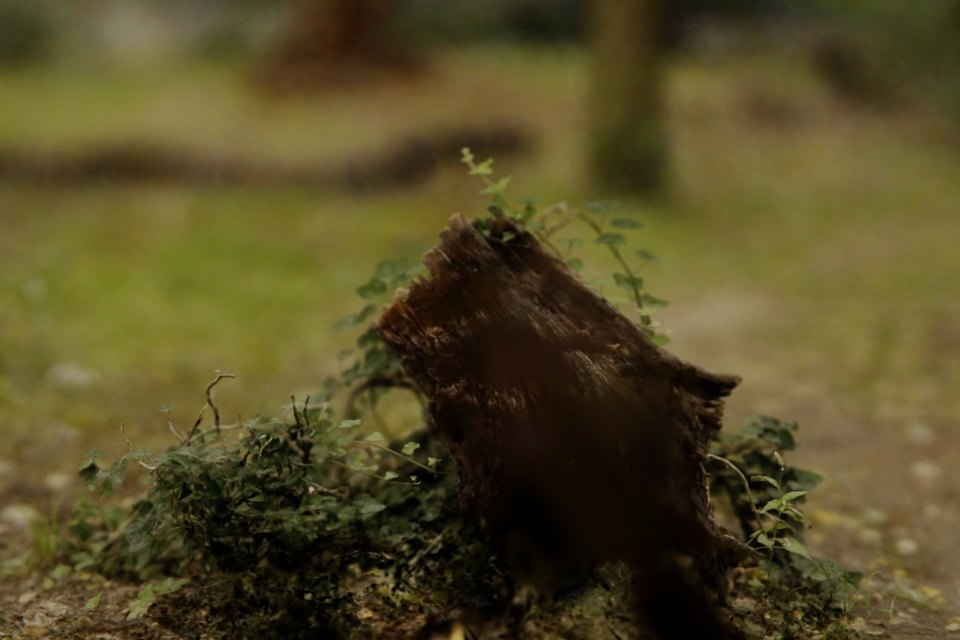
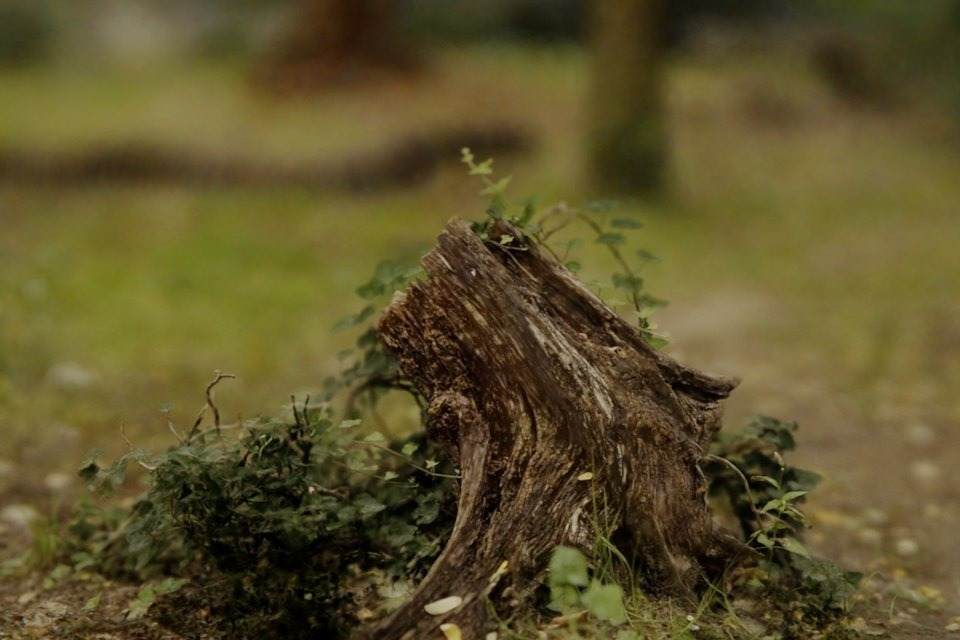
Gold frames crisp at full res and smooth spin; Wide and sharp pulls again; shorter first walk, no footsteps, smoother eye height; aperture clip keeps the stump's brightness; exposure challenge intro card

Changed region(s): [[0.375, 0.3125, 0.8125, 1.0]]

diff --git a/src/coach.js b/src/coach.js
@@ -69,7 +69,15 @@
   // 0 → 1 → 0 with a pause at each end, so there's time to see both
   function coSweep(now){ var T=5.6, u=(now/1000)%T/T, e=function(x){ return x<0?0:x>1?1:x*x*(3-2*x); };
     return u<0.12?0:u<0.45?e((u-0.12)/0.33):u<0.62?1:u<0.95?1-e((u-0.62)/0.33):0; }
-  function coMediaDraw(kind, cv, now){ if(CO_SCENE[kind]) return coSceneDraw(kind, cv); var M=CO_MEDIA[kind]; if(!M||!cv||!CO_IMG.complete||!CO_IMG.naturalWidth) return;
+  /* the exposure challenge's intro: the three lights it's about to throw at you, side by side */
+  function coLightsDraw(cv){ if(!cv||!CO_IMG.complete||!CO_IMG.naturalWidth) return; var dpr=Math.min(2,window.devicePixelRatio||1), W=cv.clientWidth||400, H=cv.clientHeight||240; if(cv.width!==Math.round(W*dpr)){ cv.width=Math.round(W*dpr); cv.height=Math.round(H*dpr); }
+    var g=cv.getContext("2d"); g.setTransform(dpr,0,0,dpr,0,0); g.fillStyle="#0c0b0a"; g.fillRect(0,0,W,H);
+    var L=[["day","1 · SUNNY DAY"],["night","2 · NIGHT"],["blur","3 · SOFT BACKGROUND"]], gap=6, tw=(W-gap*2)/3;
+    L.forEach(function(l,i){ var S=CO_SCENE[l[0]], img=(S.ap!=null&&CO_AP.ok)?CO_AP.im[S.ap]:CO_IMG, x0=i*(tw+gap), ir=img.naturalWidth/img.naturalHeight, dh=H, dw=H*ir;
+      g.save(); g.beginPath(); g.rect(x0,0,tw,H); g.clip(); g.filter=S.f; g.drawImage(img,x0+(tw-dw)/2,0,dw,dh); g.filter="none"; if(S.tint){ g.fillStyle=S.tint; g.fillRect(x0,0,tw,H); }
+      var gr=g.createLinearGradient(0,H-46,0,H); gr.addColorStop(0,"rgba(12,11,10,0)"); gr.addColorStop(1,"rgba(12,11,10,.85)"); g.fillStyle=gr; g.fillRect(x0,H-46,tw,46);
+      g.font="500 11px 'Geist Mono',ui-monospace,monospace"; g.fillStyle="#e3ad57"; g.fillText(l[1],x0+10,H-14); g.restore(); }); }
+  function coMediaDraw(kind, cv, now){ if(kind==="lights") return coLightsDraw(cv); if(CO_SCENE[kind]) return coSceneDraw(kind, cv); var M=CO_MEDIA[kind]; if(!M||!cv||!CO_IMG.complete||!CO_IMG.naturalWidth) return;
     var dpr=Math.min(2,window.devicePixelRatio||1), W=cv.clientWidth||400, H=cv.clientHeight||240;
     if(cv.width!==Math.round(W*dpr)){ cv.width=Math.round(W*dpr); cv.height=Math.round(H*dpr); }
     var g=cv.getContext("2d"); g.setTransform(dpr,0,0,dpr,0,0); g.globalAlpha=1; g.globalCompositeOperation="source-over"; g.filter="none";
@@ -82,7 +90,7 @@
       else { var path=[[0,0],[0.3,0.2],[0.55,-0.1],[0.8,0.35],[1,0.15],[0.7,-0.25],[0.45,0.05],[0.2,-0.3]], wob=Math.sin(now/170)*0.15;
         for(var k=0;k<path.length;k++){ g.globalAlpha=1/(k+1); g.drawImage(img,dx+(path[k][0]-0.5+wob)*L,dy+(path[k][1])*L,dw,dh); } g.globalAlpha=1; } }
     else if(kind==="aperture"&&CO_AP.ok){ var fi=t*(CO_AP.im.length-1), a0=Math.floor(fi), a1=Math.min(CO_AP.im.length-1,a0+1), fr=fi-a0, im0=CO_AP.im[a0], r0=im0.naturalWidth/im0.naturalHeight, w0=W, h0=W/r0; if(h0<H){ h0=H; w0=H*r0; }
-      g.filter="brightness("+(1.08-0.4*t).toFixed(3)+")";   /* the frames were metered; here the same shutter stays, so stopping down goes darker */
+      g.filter="none";   /* the frames were metered: the stump keeps the same brightness while the depth of field changes */
       g.drawImage(im0,(W-w0)/2,(H-h0)/2,w0,h0); if(fr>0.01){ g.globalAlpha=fr; g.drawImage(CO_AP.im[a1],(W-w0)/2,(H-h0)/2,w0,h0); g.globalAlpha=1; } g.filter="none"; coIris(g,W-52,50,34,t); }
     else if(kind==="aperture"){ bright=1.32-0.78*t; var B=(1-t)*7;
       g.filter="blur("+B.toFixed(2)+"px) brightness("+bright.toFixed(3)+")"; g.drawImage(img,dx-8,dy-8,dw+16,dh+16);
@@ -109,7 +117,7 @@
     var words=t<0.25?M.lo:t>0.75?M.hi:(M.mid&&Math.abs(t-0.5)<0.12?M.mid:"");
     if(words){ g.font="400 13px 'Geist',ui-sans-serif,system-ui,sans-serif"; g.fillStyle="#f4f1ea"; g.textAlign="right"; g.fillText(words,x1,H-26); g.textAlign="left"; } }
   // the warm-up's practice scenes: a picture of the target, the sliders ringed, and the meter reading as if the light were different
-  function coScene(kind, bias, line, sub, extra){ return {ch:"EXPOSE", media:kind, need:"back", dwell:1400, line:function(){ return line; }, sub:sub,
+  function coScene(kind, bias, line, sub, extra){ return {ch:"CHALLENGE", media:kind, need:"back", dwell:1400, line:function(){ return line; }, sub:sub,
     target:'#camback .cb-meter', place:"side", targets:function(){ return Array.prototype.slice.call(document.querySelectorAll('#camback .cb-scale')); }, nodim:true,
     start:function(){ meterBias=bias; computeCam(); if(typeof cbRender==="function") cbRender(); },
     done:function(){ return Math.abs(evStops)<=0.5&&(!extra||extra()); } }; }
@@ -145,9 +153,9 @@
       {ch:"MOVE", line:function(){ return 'Click, then move the mouse to look around'; }, sub:"Esc lets go of the mouse. The sharp thing in front of you is the subject; if you lose it, a gold ring points the way back.",
         done:function(){ return CO.look>1.6; }, bar:function(){ return CO.look/1.6; }},
       {ch:"MOVE", line:function(){ var d=typeof chSubjectDist==="function"?chSubjectDist():Infinity; return isFinite(d)&&d>4.5?'Head for the gold ring: that\'s '+(typeof chSubjectName==="function"?chSubjectName():"the subject")+', your subject':coK("W")+coK("A")+coK("S")+coK("D")+' to walk'; },
-        sub:"Have a wander, but stay close. A scan is only sharp near the thing it was made of; the edges always go soft.",
+        sub:"Just a few steps, and stay close. A scan is only sharp near the thing it was made of; the edges always go soft.",
         start:function(){ CO.s.d0=typeof chSubjectDist==="function"?chSubjectDist():Infinity; },   /* a scene that starts you far from its subject only asks you to head its way */
-        done:function(){ var d=typeof chSubjectDist==="function"?chSubjectDist():Infinity; return CO.walked>3&&(!isFinite(d)||d<4.5||d<CO.s.d0-2); }, bar:function(){ return Math.min(1,CO.walked/3); }},
+        done:function(){ var d=typeof chSubjectDist==="function"?chSubjectDist():Infinity; return CO.walked>1.2&&(!isFinite(d)||d<4.5||d<CO.s.d0-1); }, bar:function(){ return Math.min(1,CO.walked/1.2); }},
       {ch:"MOVE", line:function(){ return coK("Q")+' to crouch, '+coK("E")+' to stand tall'; }, sub:"Try shooting from low down and up high.",
         done:function(){ return CO.keys.Q&&CO.keys.E; }},
       {ch:"SHOOT", line:function(){ return '<kbd>RIGHT CLICK</kbd> raises the camera to your eye'; }, sub:"Right click again to lower it. "+coK("P")+" does the same.",
@@ -182,10 +190,13 @@
       coDial(2,"iso","ISO","Higher sees in the dark, lower keeps it clean."),
       {ch:"SETTINGS", media:"meter", info:true, need:"back", line:function(){ return 'The <b>light meter</b> adds them all up'; },
         sub:"Every setting moves the needle. Left of the middle is too dark, right is too bright. Get it near the middle, then trade one setting against another for the look you want."},
-      coScene("day", 3, 'A <b>bright sunny day</b>: get the needle to the middle', "There's eight times more light than here. Turn the sliders until the needle sits in the middle.", null),
-      coScene("night", -4, '<b>Night</b>: get the needle to the middle', "Sixteen times less light. You'll need to let a lot more in, with a slower shutter, a wider aperture or a higher ISO.", null),
-      coScene("blur", 0, 'A <b>blurred background</b>: f/2.8 or wider, needle in the middle', "Open the aperture to blur the background, then balance the light with the other two.", function(){ return APERTURES[apIdx]<=2.8; }),
-      {ch:"EXPOSE", line:function(){ return coK("SPACE")+' takes you back to the scene'; }, sub:"",
+      /* a clear break: the explaining's over, now it's a challenge with three lights to expose for */
+      {ch:"CHALLENGE", media:"lights", info:true, need:"back", line:function(){ return '<b>Challenge:</b> expose for three different lights'; },
+        sub:"Now it's your turn. We'll change the light on you three times: a bright sunny day, then night, then a soft background. Each time the needle swings off, and it's up to you to bring it back to the middle with what you've just learnt."},
+      coScene("day", 3, 'A <b>bright sunny day</b>: get the needle to the middle <span class="co-rng">1 of 3</span>', "There's eight times more light than here. Turn the sliders until the needle sits in the middle.", null),
+      coScene("night", -4, '<b>Night</b>: get the needle to the middle <span class="co-rng">2 of 3</span>', "Sixteen times less light. You'll need to let a lot more in, with a slower shutter, a wider aperture or a higher ISO.", null),
+      coScene("blur", 0, 'A <b>blurred background</b>: f/2.8 or wider, needle in the middle <span class="co-rng">3 of 3</span>', "Open the aperture to blur the background, then balance the light with the other two.", function(){ return APERTURES[apIdx]<=2.8; }),
+      {ch:"CHALLENGE", line:function(){ return coK("SPACE")+' takes you back to the scene'; }, sub:"",
         done:function(){ return !cbOpen; }}]},
     select:{where:function(){ return typeof st!=="undefined"&&st.open&&st.room==="select"; }, steps:[
       {ch:"LOOK", line:function(){ return 'Every photo you took is on the <b>light table</b>'; }, sub:"Look through them all before you choose.",
@@ -503,4 +514,4 @@
   document.addEventListener("click",function(e){ if(!CO.on) return; var s=coSteps()[CO.i]; if(s&&s.click&&e.target.closest&&e.target.closest(s.click)) CO.s.ok=true; }, true);
   document.addEventListener("keydown",function(e){ if(!CO.on) return; var m={KeyW:"W",KeyA:"A",KeyS:"S",KeyD:"D",KeyQ:"Q",KeyE:"E",KeyP:"P",KeyB:"B",Space:"SPACE",Digit2:"2",Backslash:"\\",Escape:"ESC",Enter:"ENTER",KeyC:"C"}[e.code]; if(m) CO.keys[m]=true; }, true);
   if(/[?&]dev/.test(location.search)) window.__co={ state:function(){ var s=coSteps()[CO.i]; return {on:CO.on, tour:CO.tour, done:CO.done, i:CO.i, n:coSteps().length, ch:s&&s.ch, shown:!!document.querySelector("#coCard.show"), ed:edState?{i:edState.i, a:edState.aspect, cx:+edState.cx.toFixed(3), cy:+edState.cy.toFixed(3)}:null}; }, skip:function(){ coFinish(true); },
-    start:coStart, stop:coStop, next:function(){ CO.s.ok=true; }, go:function(){ if(CO.on&&!CO.ticking) coTicked(); }, clip:function(kind,cv,ms){ coMediaDraw(kind,cv,ms); }, qclip:function(kind,cv,ms){ qClipDraw(kind,cv,ms); }, qmorph:qMorphOpen, nudge:function(o){ if(o.look) CO.look+=o.look; if(o.walk) CO.walked+=o.walk; if(o.keys) o.keys.forEach(function(k){ CO.keys[k]=true; }); } };
+    back:function(){ if(typeof openBack==="function") openBack(); }, start:coStart, stop:coStop, next:function(){ CO.s.ok=true; }, go:function(){ if(CO.on&&!CO.ticking) coTicked(); }, clip:function(kind,cv,ms){ coMediaDraw(kind,cv,ms); }, qclip:function(kind,cv,ms){ qClipDraw(kind,cv,ms); }, qmorph:qMorphOpen, nudge:function(o){ if(o.look) CO.look+=o.look; if(o.walk) CO.walked+=o.walk; if(o.keys) o.keys.forEach(function(k){ CO.keys[k]=true; }); } };

diff --git a/src/challenge.js b/src/challenge.js
@@ -72,7 +72,7 @@
   // is the camera inside frame P's pulse (grown by m metres)?
   function chInPulse(P,m){ var L=Math.hypot(P.d.x,P.d.z)||1, ax=-P.d.x/L, az=-P.d.z/L, dx=camPos.x-P.F.x, dz=camPos.z-P.F.z;
     var n=dx*ax+dz*az, u=Math.abs(dx*-az+dz*ax), k=Math.max(0,Math.min(1,n/CH_REACH));
-    return n>-0.25-m&&n<CH_REACH+m&&u<P.w*0.5*(1+CH_SPREAD*k)+0.2+m&&Math.abs(camPos.y-P.F.y)<P.h*0.5+1.3+m; }
+    return n>-0.25-m&&n<CH_REACH+m&&u<P.w*0.5*(1+CH_SPREAD*k)+0.2+m&&Math.abs(camPos.y-P.F.y)<P.h*0.5+2.0+m; }   /* any eye height: a low frame still takes you standing tall */
   var CH_INTRO_SETTLE=2500;   /* ms after the opening or welcome card has gone before the gold frames' spin may start */
   var CH_MOVE={KeyW:1,KeyA:1,KeyS:1,KeyD:1,KeyQ:1,KeyE:1,ArrowUp:1,ArrowDown:1,ArrowLeft:1,ArrowRight:1,Space:1}, CH_GRACE=1000;
   CH.glow=0; CH.bloom=0; CH.pt=0; CH.lockT=0;
@@ -107,9 +107,9 @@
     if(CH.cool>=0){ var C=CH.pads[CH.cool]; if(!C||(!chInPulse(C,0.3)&&Math.hypot(camPos.x-C.E.x,camPos.z-C.E.z)>0.6)) CH.cool=-1; }   // free again once you've stepped out of its pulse
     if(CH.pull>=0){ var Q=CH.pads[CH.pull];
       if(!chHold()&&(nudge||Math.hypot(camPos.x-Q.E.x,camPos.z-Q.E.z)>CH_LEAVE)){ chLetGo(); return; } }
-    else { if(CH.cool>=0) return;   // just let go of one: step out of its pulse before another can take you
+    else {   /* the one you just let go of waits until you've stepped out of its pulse; the others can take you straight away (Wide and sharp sits right beside the shallow depth of field one) */
       // in its pulse, or already standing on its spot; the nearest frame wins
-      var best=-1, bd=1e9; CH.pads.forEach(function(P,i){ if(CH.done[P.c.id]||!P.vis||!(chInPulse(P,0)||Math.hypot(camPos.x-P.E.x,camPos.z-P.E.z)<0.3)) return; var dd=Math.hypot(camPos.x-P.F.x,camPos.z-P.F.z); if(dd<bd){ bd=dd; best=i; } });
+      var best=-1, bd=1e9; CH.pads.forEach(function(P,i){ if(i===CH.cool||CH.done[P.c.id]||!P.vis||!(chInPulse(P,0)||Math.hypot(camPos.x-P.E.x,camPos.z-P.E.z)<0.3)) return; var dd=Math.hypot(camPos.x-P.F.x,camPos.z-P.F.z); if(dd<bd){ bd=dd; best=i; } });
       if(best>=0) chGrab(best); }
     if(CH.pull<0||CH.locked) return; var P=CH.pads[CH.pull], A=CH.from, B=CH.to;
     CH.pt=Math.min(1,CH.pt+dt/CH.dur); var x=CH.pt, s=x*x*x*(x*(x*6-15)+10);   // smootherstep: eases out of where you were, settles softly
@@ -223,5 +223,6 @@
     window.__ch.aim=function(i){ var d=CH.pads[i].d; yaw=Math.atan2(-d.x,-d.z); pitch=Math.asin(Math.max(-1,Math.min(1,d.y))); basis(); };
     window.__ch.goto=function(i){ var P=CH.pads[i]; CH.pull=-1; CH.locked=false; CH.cool=i; camPos.x=P.E.x; camPos.z=P.E.z; WK.eye=P.E.y-wkGround(P.E.x,P.E.z); _vel.set(0,0,0); };
     window.__ch.approach=function(i,out,turn){ var P=CH.pads[i], L=Math.hypot(P.d.x,P.d.z)||1; out=out==null?0.35:out; camPos.x=P.F.x-P.d.x/L*out; camPos.z=P.F.z-P.d.z/L*out; yaw=Math.atan2(-P.d.x,-P.d.z)+(turn==null?0.3:turn); pitch=0; _vel.set(0,0,0); };
+    window.__ch.probe=function(i){ var P=CH.pads[i]; return {inPulse:chInPulse(P,0), cam:[camPos.x,camPos.y,camPos.z], F:[P.F.x,P.F.y,P.F.z], E:[P.E.x,P.E.y,P.E.z], d:[P.d.x,P.d.y,P.d.z], w:P.w, h:P.h, D:P.D, vis:P.vis, cool:CH.cool, intro:!!CH.intro, introAt:CH.introAt, off:chOff(), offWhy:[!!CH.hidden, typeof RF!=="undefined"&&RF.on, typeof LA!=="undefined"&&!!(LA.on||LA.wcard||LA.toTour), typeof coHidesFrames==="function"&&coHidesFrames()], pull:CH.pull, mm:P.c.mm, blocked:WK.col?wkBlocked(camPos.x,camPos.z,wkFeet()):null}; };   /* why a frame does or doesn't take you */
     window.__ch.pull=function(){ return {i:CH.pull, locked:CH.locked, cool:CH.cool, hold:chHold()}; }; window.__ch.nudge=function(){ CH.nudge=true; };
     window.__ch.force=function(i){ CH.intro=null; CH.pull=-1; CH.locked=false; CH.cool=i; CH.focus=i; CH.active=i; chCard(i>=0?CH.pads[i]:null); if(typeof cbRender==="function") cbRender(); if(typeof bagRender==="function") bagRender(); }; }

diff --git a/src/app.js b/src/app.js
@@ -566,7 +566,7 @@
     var k=1-Math.pow(0.0015, Math.max(dt,0.0001));
     fx.exposure+=(tgtE-fx.exposure)*k; fx.filmic+=(tgtF-fx.filmic)*k; fx.vignette+=(tgtV-fx.vignette)*k; fx.grain+=(tgtG-fx.grain)*k; fx.dof+=(tgtD-fx.dof)*k;
     renderer.setRenderTarget(sceneRT); renderer.setClearColor(0x0e0f13,1); renderer.clear(true,true,true);
-    if(viewer){ try{ skyFollow(); if(typeof weTick==="function") weTick(dt); wxSkyFor(camera.position); sparkLens(); ptRender(); wxSkyFor(camera.position); renderer.setRenderTarget(sceneRT); renderer.render(scene,camera); chRender(dt); if(typeof bndRender==="function") bndRender(dt); }catch(e){ if(!renderFrame.warned){ renderFrame.warned=1; console.error("render failed",e); } } }
+    if(viewer){ try{ skyFollow(); if(typeof weTick==="function") weTick(dt); wxSkyFor(camera.position); sparkLens(); ptRender(); wxSkyFor(camera.position); renderer.setRenderTarget(sceneRT); renderer.render(scene,camera); if(typeof bndRender==="function") bndRender(dt); }catch(e){ if(!renderFrame.warned){ renderFrame.warned=1; console.error("render failed",e); } } }
     var useD=false;
     if(loaded&&dt>0) chTick(dt);
     renderer.setRenderTarget(fsTarget);
@@ -581,6 +581,7 @@
     if(!cap) seedCounter=(seedCounter+1)%9973; fsMat.uniforms.seed.value=seedCounter;   /* grain moves every frame you watch, and holds still for the one the shutter records */
     if(dt>0){ var nowT=performance.now(); if(nowT-(renderFrame._lt||0)>250){ renderFrame._lt=nowT; if(Math.abs(Math.log(sceneLightLin())/Math.LN2-lightStops)>0.02) computeCam(); } }   /* the light changed (time of day, a lamp): the meter follows */
     renderer.render(fsScene,fsCam);
+    if(viewer){ try{ chRender(dt); }catch(e){} }   /* the gold frames draw after the last pass, at the screen's full resolution, so they're crisp however low the scene is drawing */
   }
   function animate(){ requestAnimationFrame(animate); var dt=Math.min(clock.getDelta(),0.1);
     if((typeof cbOpen!=="undefined" && cbOpen) || (typeof bg!=="undefined" && bg.open) || (typeof st!=="undefined" && st.open)) return;   // the camera back covers the scene: stop drawing it (big win on school PCs)
@@ -722,7 +723,7 @@
   // resolution first (down to 60%); if that's not enough, trim Spark's splat budget a little too. Both come back with headroom.
   function dynLod(){ var sp=viewer&&viewer.spark; return sp?sp.lodSplatScale:1; }
   function dynLodBase(){ var b=(DETAIL[sceneDetail]||DETAIL.balanced).lod||1; return CH.spec&&CH.spec.fullRes?Math.max(b,1.3):b; }
-  function dynTick(dt){ if(!loaded||!(dt>0)) return; dyn.ema=dyn.ema*0.9+dt*100; dyn.t+=dt; var mx=dynTop(), sp=viewer&&viewer.spark; if(dyn.scale>mx+0.001){ setScale(mx); return; }
+  function dynTick(dt){ if(!loaded||!(dt>0)) return; if(typeof CH!=="undefined"&&CH.intro) return;   /* no resolution steps mid-spin: each one reallocates the scene target and hitches the glide */ dyn.ema=dyn.ema*0.9+dt*100; dyn.t+=dt; var mx=dynTop(), sp=viewer&&viewer.spark; if(dyn.scale>mx+0.001){ setScale(mx); return; }
     if(dyn.t<0.6) return; dyn.t=0; var fps=1000/dyn.ema;
     /* when it's slow, thin the distant splats first (barely visible), and only then drop resolution, never below 0.85:
        a blurry picture looks far worse than a little less far-off detail */

diff --git a/src/walk.js b/src/walk.js
@@ -39,11 +39,13 @@
     else { _vel.x=0; _vel.z=0; }
     if(!stuck&&(camPos.x!==nx||camPos.z!==nz)&&Date.now()-(WK.bumpT||0)>900){ WK.bumpT=Date.now(); if(typeof achEvent==="function") achEvent("bump"); }   /* walked into something */
     if(!wkBlocked(camPos.x,camPos.z,wkFeet())) wkFree();
-    if(WK.mode==="walk"&&!stuck) sfxStepTick(dt, Math.hypot(_vel.x,_vel.z));
+    /* no footstep sound: Sam found it distracting */
     if(WK.mode==="fly"){ camPos.y+=_vel.y*dt; var gmin=wkGround(camPos.x,camPos.z)+0.15; if(camPos.y<gmin){ camPos.y=gmin; _vel.y=0; } } }
   /* the nearest clear spot, searched in rings out to a metre and a bit */
   function wkEscape(feet){ for(var d=0.1;d<=1.3;d+=0.1) for(var a=0;a<16;a++){ var an=a/16*Math.PI*2, x=camPos.x+Math.cos(an)*d, z=camPos.z+Math.sin(an)*d; if(!wkBlocked(x,z,feet)) return [x,z]; } return null; }
-  function wkSettle(dt){ if(!WK.col||WK.mode!=="walk") return; var tgt=wkGround(camPos.x,camPos.z)+WK.eye; camPos.y+=(tgt-camPos.y)*(1-Math.exp(-10*Math.min(dt,0.05))); }
+  /* the eye height follows the ground, averaged over a step's width so the bumps in a scan's ground don't jog the view */
+  function wkGroundSoft(x,z){ var r=0.3; return wkGround(x,z)*0.4+(wkGround(x+r,z)+wkGround(x-r,z)+wkGround(x,z+r)+wkGround(x,z-r))*0.15; }
+  function wkSettle(dt){ if(!WK.col||WK.mode!=="walk") return; var tgt=wkGroundSoft(camPos.x,camPos.z)+WK.eye; camPos.y+=(tgt-camPos.y)*(1-Math.exp(-6*Math.min(dt,0.05))); }
   function wkEye(d, dt){ var e=Math.max(WK_EYE_MIN,Math.min(WK_EYE_MAX,WK.eye+d*dt*0.9)); if(e===WK.eye) return; WK.eye=e;
     var now=performance.now(); if(now-WK.toastT>500){ WK.toastT=now; toast(e<0.7?"Crouching · eyes "+e.toFixed(1)+" m":e>1.9?"Standing tall · eyes "+e.toFixed(1)+" m":"Eyes "+e.toFixed(1)+" m off the ground"); } }
   // start a little back from the subject, on open ground, looking at it
